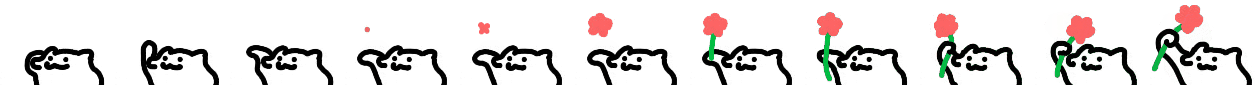
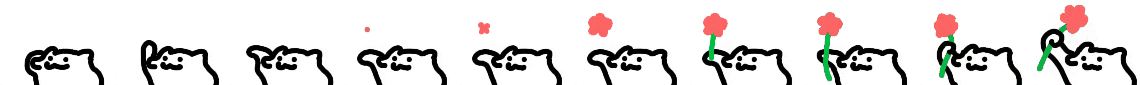
fix:修复输出图片帧数

Changed region(s): [[0.0, 0.0471, 1.0, 1.0], [0.3684, 0.2588, 0.4298, 0.4], [0.2763, 0.3294, 0.3377, 0.3765]]

diff --git a/gif_split.py b/gif_split.py
@@ -50,7 +50,7 @@ def main():
     num_frames = 10                     # 要提取的帧数
     interval = 10                      # 帧之间的间隔（像素）
     
-    frames = extract_frames_at_intervals(gif_path, num_frames)
+    frames = extract_frames_at_intervals(gif_path, num_frames-1)
     concatenated_image = concatenate_frames(frames, interval)
     concatenated_image.save(output_path)
     print("Done")
